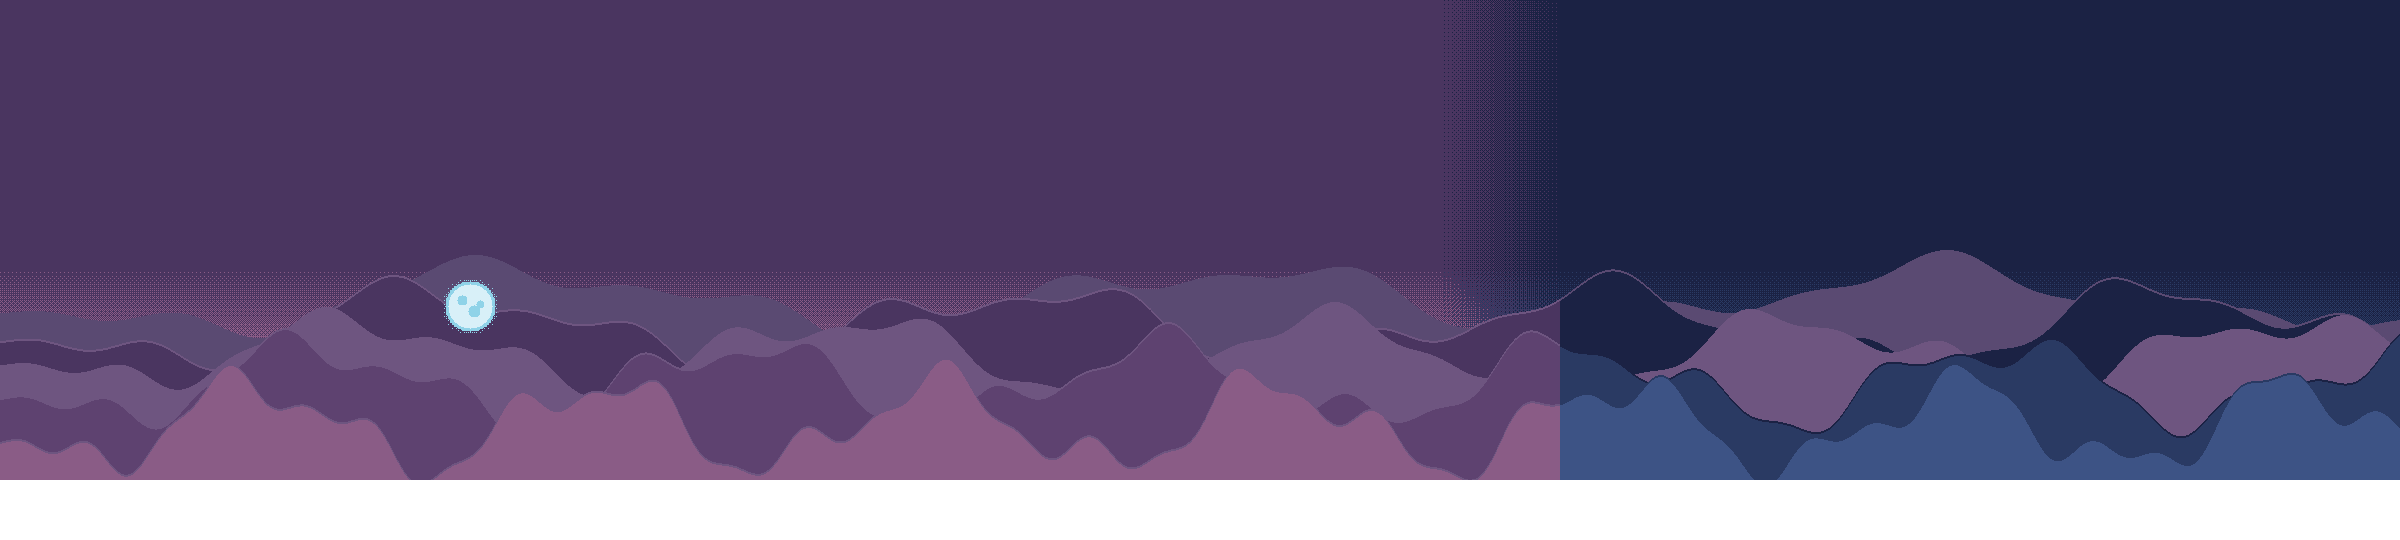
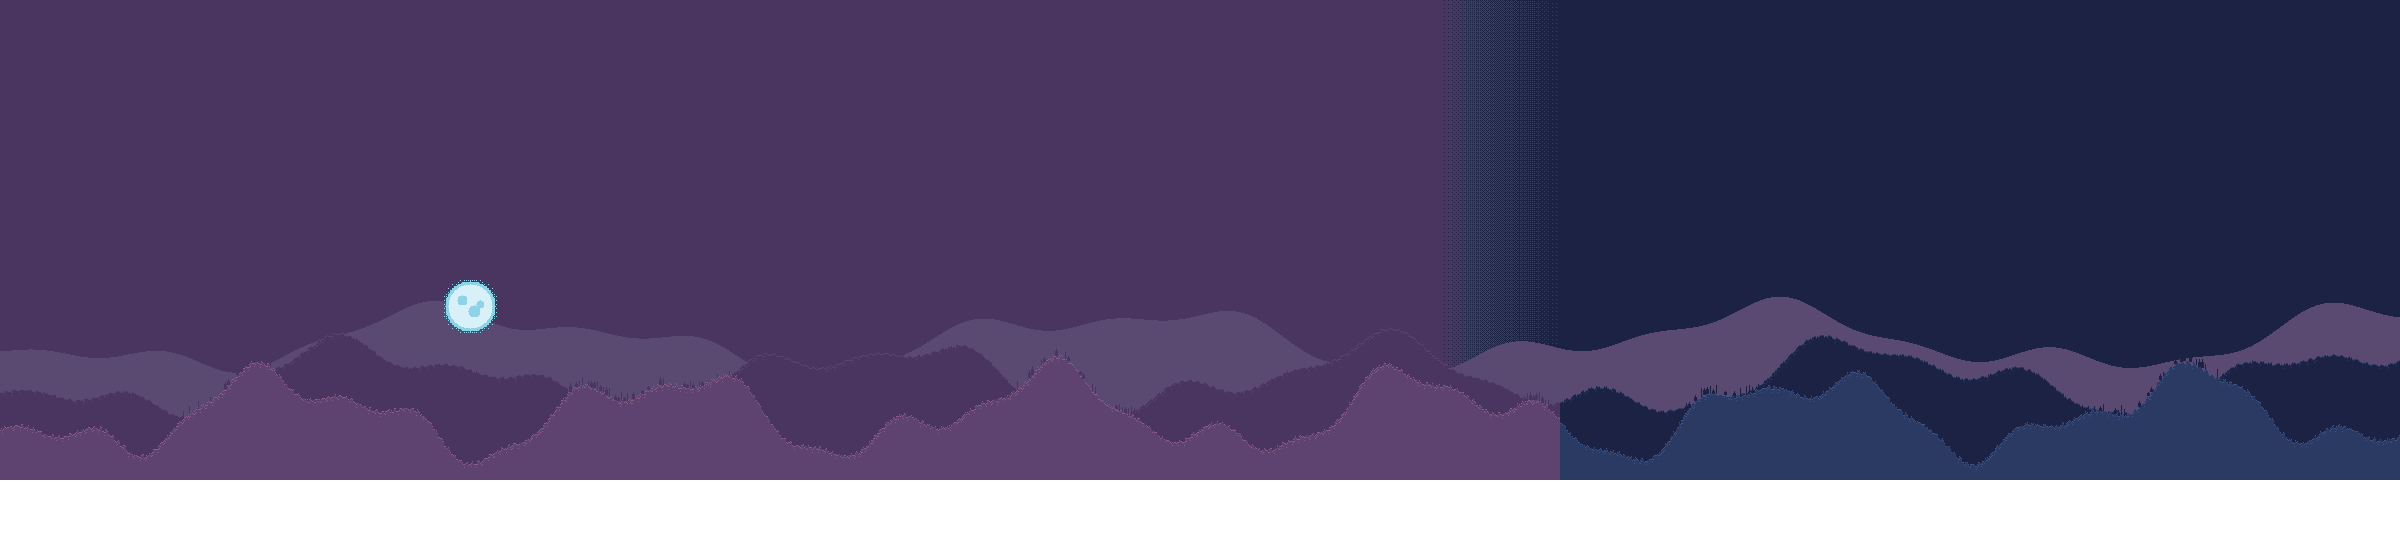
fix(art): 重做背景远山与天空 - 压低山体/加锯齿/补树线

Changed region(s): [[0.0, 0.4741, 1.0, 0.8889], [0.0, 0.6222, 0.0625, 0.6519], [0.4688, 0.5037, 0.5, 0.5333]]

diff --git a/tools/make_scene_art.py b/tools/make_scene_art.py
@@ -1,4 +1,4 @@
-"""场景美术生成器：把灰盒替换成有氛围的夜景。
+"""场景美术生成器：把灰盒替换成有氛围的夜景。
 
 ## 设计思路
 
@@ -130,105 +130,155 @@ def hex_rgb(h):
 
 # ─────────────────────── 远景：夜空 ───────────────────────
 
-def make_sky():
-    """夜空：垂直渐变 + 月亮 + 三层远山。
 
-    渐变用**有序抖动**（4×4 Bayer），不是平滑渐变 ——
-    平滑渐变在像素画里会产生上百种中间色，直接破坏 28 色约束。
-    抖动让相邻两种纯色交错，远看是渐变，近看仍是纯色块。
+def _ridge_color(body, is_night):
+    """给山脊取一个"比山体亮一档"的色。
+
+    **必须从调色板里取**，不能计算 —— 计算出的色会让用色统计超标。
+    优先找同色系里明度高一档的；找不到就返回原色（宁可不勾）。
+
+    **必须区分黄昏/夜色**：第一版在全调色板里找"更亮且色相接近"的，
+    结果夜色区的山脊选到了黄昏紫 (90,74,114)，夜幕上冒出一圈紫边。
+    所以候选集要按区域过滤。
+    """
+    if is_night:
+        # 夜色系：只允许**蓝色分量明显高于红色**的深色。
+        # 不能用 haze_* ——haze_far 是 (90,74,114) 的紫，
+        # 混进夜幕会有一条明显的紫边（实测 y=359~371）。
+        keys = ["night_far", "night_mid", "night_near", "ink"]
+    else:
+        # 黄昏系：只允许偏紫的暖色
+        keys = ["dusk_mtn_dk", "dusk_mtn", "dusk_sky",
+                "haze_far", "haze_near"]
+    pal = [hx(k)[:3] for k in keys if k in P]
+    # 在山体色基础上，找"更亮且色相接近"的调色板成员
+    best = body[:3]
+    best_score = 0.0
+    body_lum = 0.299 * body[0] + 0.587 * body[1] + 0.114 * body[2]
+    for c in pal:
+        lum = 0.299 * c[0] + 0.587 * c[1] + 0.114 * c[2]
+        # 只要稍微亮一点的
+        if lum <= body_lum or lum > body_lum * 1.6:
+            continue
+        # 色相接近：三通道差值不能太大
+        diff = max(abs(c[0] - body[0]), abs(c[1] - body[1]),
+                   abs(c[2] - body[2]))
+        if diff > 90:
+            continue
+        score = lum - diff * 0.3
+        if score > best_score:
+            best_score = score
+            best = c
+    return (best[0], best[1], best[2], 255)
+def make_sky():
+    """夜空 + 远山。
+
+    ## 这一版为什么重做
+
+    用户反馈「背景跟风格有点不搭配，月亮跟草地对味了」。
+    月亮和草的特点是**小而精致**（有描边、有 2~3 级明暗、轮廓清晰），
+    而山是**巨大而平坦**（撑满画面的 67%，每层只有 1~2 个纯色）。
+
+    具体三个问题：
+
+    1. **山太大**：基准高度 300~424，相机可见区间才 y=270~540，
+       等于整块画面都是山，没有"天空"的呼吸感。
+    2. **天空抖动太吵**：可视角内的渐变用 4×4 Bayer，但相邻两色
+       明度差太大，抖动出来是可见噪点，像静态雪花。
+       月亮周围明明是干净的，两者放一起就割裂。
+    3. **原来的"山体色块扰动"是空操作**：写的是 px[x,yy] = color，
+       而那里本来就是 color，整段代码什么也没做。
+
+    ## 这版的做法
+
+    · **天空以纯色为主，只有靠近地平线的一条窄带做抖动渐变**
+      → 大面积干净，噪点消失，和月亮的干净感一致
+    · **山整体下压**（340/378/412），留出上方 1/3 干净天空
+    · **山脊加锯齿**（原来的纯正弦太圆滑，像布不是山）
+    · **最近一层山脊加远景树线**，把"草"的语言延伸到远处
+    · 山体加**受光/背光分界**（每层两种色），不再是一整片纯色
     """
     img = Image.new("RGBA", (ROOM_W, ROOM_H), (0, 0, 0, 0))
     px = img.load()
 
+    # ══════════════ 1. 天空 ══════════════
+    #
+    # 结构：上方一大片纯色 → 靠近地平线一小段抖动渐变。
+    # 渐变带宽只占可见高度的一部分，避免整片天空都是噪点。
+    SKY_FLAT_END = 380      # 这个 y 之前是纯色
+    HORIZON = GROUND_Y      # 480
 
+    dusk_flat = hx("dusk_mtn_dk")
+    dusk_glow = hx("dusk_sky")
+    night_flat = hx("night_far")
+    night_glow = hx("night_mid")
 
-    # 天空分三段：顶部夜色远 → 中部夜色中 → 底部夜色近
-    # 每段之间用抖动过渡（16 级）
-    # 渐变只在**可见区间**（相机看到的 y=270~480）内做，
-    # 这样玩家眼前总有层次，而不是一整片纯色。
-    VIS_TOP = 265
-    # 两套配色：x < TUTORIAL_END 用黄昏，x >= 用夜色。
-    # 在边界前后 120px 内做**抖动混合**：黄昏色和夜色按比例交错，
-    # 远看是平滑过渡，近看仍是纯色块（不破坏像素感、不引入新颜色）。
-    # **只从调色板取值，不计算中间色**。
-    # 第一版用 hex_rgb() 直接算，产生了 7 个不在调色板里的色
-    # （用色统计 29/28）。像素风要求所有颜色必须是调色板成员。
-    dusk_stops = [
-        (0.00, hx("dusk_mtn_dk")),
-        (0.50, hx("dusk_sky")),
-        (1.00, hx("dusk_glow")),
-    ]
-    night_stops = [
-        (0.00, hx("night_far")),
-        (0.50, hx("night_mid")),
-        (1.00, hx("night_near")),
-    ]
-
-    def pick_stops(x):
-        """返回该 x 位置应使用的配色。过渡区里按 x 决定，由抖动实现混合。"""
-        return dusk_stops if x < TUTORIAL_END else night_stops
+    # 黄昏/夜色的分界（和关卡分界一致，中间 120px 抖动混合）
     BLEND = 120
 
     for y in range(int(GROUND_Y)):
-        t = max(0.0, (y - VIS_TOP)) / max(1.0, GROUND_Y - VIS_TOP)
-
         for x in range(ROOM_W):
-            # 过渡带：黄昏/夜色按 x 位置和抖动比例混合
+            # 先决定这一列用哪套配色（过渡带按抖动混合）
             if x < TUTORIAL_END - BLEND:
-                stops = dusk_stops
+                flat, glow = dusk_flat, dusk_glow
             elif x >= TUTORIAL_END:
-                stops = night_stops
+                flat, glow = night_flat, night_glow
             else:
-                # 过渡带内，抖动决定这一像素取哪套
                 th_blend = (BAYER[y % 4][x % 4] + 0.5) / 16.0
                 ratio = (x - (TUTORIAL_END - BLEND)) / BLEND
-                stops = night_stops if th_blend < ratio else dusk_stops
+                if th_blend < ratio:
+                    flat, glow = night_flat, night_glow
+                else:
+                    flat, glow = dusk_flat, dusk_glow
 
-            seg = 0
-            for i in range(len(stops) - 1):
-                if stops[i][0] <= t <= stops[i + 1][0]:
-                    seg = i
-                    break
-            t0, c0 = stops[seg]
-            t1, c1 = stops[seg + 1]
-            local = 0.0 if t1 <= t0 else (t - t0) / (t1 - t0)
+            if y < SKY_FLAT_END:
+                px[x, y] = flat
+            else:
+                # 地平线渐变：从 flat 过渡到 glow
+                t = (y - SKY_FLAT_END) / max(1.0, HORIZON - SKY_FLAT_END)
+                # 用 2×2 抖动（比 4×4 粗一档）：
+                # 在 480 宽的画面里，2×2 的颗粒更接近"色块"而不是"噪点"
+                th = (BAYER[(y // 2) % 4][(x // 2) % 4] + 0.5) / 16.0
+                px[x, y] = glow if t > th else flat
 
-            th = (BAYER[y % 4][x % 4] + 0.5) / 16.0
-            c = c1 if local > th else c0
-            px[x, y] = c
-
-    # ── 远山：**五层**（原 3 层）──
-    #
-    # 原来只有 3 层纯色山，看起来像剪纸。改进点：
-    #   1. 加两层「薄雾山」做空气透视 —— 越远的山越接近天空色，
-    #      这是产生"景深"最廉价也最有效的手段
-    #   2. 每个山脊加**边缘高光**：山体顶部 1~2px 用亮一档的颜色，
-    #      模拟天光照在山脊上，山的立体感立刻出来
-    #   3. 山体内部加低频色块扰动，避免大面积纯色
+    # ══════════════ 2. 远山（三层 + 锯齿） ══════════════
     rng = random.Random(20261120)
 
-    # (夜色, 黄昏色, 基准高度, 起伏幅度, 波长, 是否加脊线高光)
-    # (夜色, 黄昏色, 夜色高光, 黄昏高光, 基准高度, 起伏, 波长, 是否加脊线)
+    # (夜色, 黄昏色, 夜色高光, 黄昏高光, 基准高度, 起伏, 波长, 锯齿强度)
+    #
+    # 基准高度整体下压：340/378/412（原来 300~424）。
+    # 这样 y=270 到第一层山之间留出约 70px 干净天空。
+    # 山脊高光色**必须和山体同色系**：
+    #   · 夜色区只能从 night_* 取
+    #   · 黄昏区只能从 dusk_* 取
+    # 第一版最远那层的高光写的是 haze_far（紫），结果夜幕上
+    # 冒出一条紫边（实测 y=359~371 全是 (90,74,114)）。
     layers = [
-        # 最远：薄雾山（贴着天空色，几乎融进去）
-        (hx("haze_far"),   hx("haze_far"),   hx("haze_far"),   hx("haze_far"),   300, 30, 700, False),
-        # 远
-        (hx("night_far"),  hx("dusk_mtn_dk"), hx("haze_far"),  hx("haze_near"),  326, 34, 580, True),
+        # 最远：几乎融进天空，不需要独立高光
+        (hx("haze_far"),   hx("haze_far"),    hx("haze_far"),
+         hx("haze_far"),   340, 26, 640, 0.0),
         # 中远
-        (hx("haze_near"),  hx("haze_near"),  hx("haze_near"),  hx("haze_near"),  352, 30, 480, False),
-        # 中
-        (hx("night_mid"),  hx("dusk_mtn"),   hx("night_far"),  hx("haze_near"),  382, 36, 420, True),
-        # 近
-        (hx("night_near"), hx("dusk_sky"),   hx("night_mid"),  hx("haze_near"),  424, 40, 340, True),
+        (hx("night_far"),  hx("dusk_mtn_dk"), hx("night_mid"),
+         hx("dusk_mtn"),   378, 30, 500, 0.6),
+        # 近：最实、锯齿最强
+        (hx("night_mid"),  hx("dusk_mtn"),    hx("night_near"),
+         hx("dusk_sky"),   412, 34, 380, 1.0),
     ]
 
-    # 每层用不同的高频多段叠加，做出山的"肩线"
-    for night_c, dusk_c, night_hi, dusk_hi, base, amp, wave, rim in layers:
+    for night_c, dusk_c, night_hi, dusk_hi, base, amp, wave, jag in layers:
         heights = []
         for x in range(ROOM_W):
+            # 主起伏：多频正弦（保持山的大形）
             h = (math.sin(x / wave * math.tau) * amp
                  + math.sin(x / (wave * 0.43) * math.tau + 1.7) * amp * 0.45
                  + math.sin(x / (wave * 0.21) * math.tau + 3.1) * amp * 0.22)
+            # 锯齿：让山脊不是光滑曲线。
+            # 纯正弦看起来像"布褶"而不是山岩 —— 这是上一版最大的问题。
+            if jag > 0.0:
+                step = max(2, int(6 - jag * 3))
+                if (x // step) % 2 == 0:
+                    h += jag * 2.0
+                h += rng.uniform(-jag * 1.2, jag * 1.2)
             heights.append(int(base + h))
 
         for x in range(ROOM_W):
@@ -237,21 +287,56 @@ def make_sky():
             for y in range(max(0, top), int(GROUND_Y)):
                 px[x, y] = color
 
-            # 山体内部的低频色块扰动（每 24px 一块，错开避免规则感）
-            if (x // 24 + (top // 18)) % 5 == 0:
-                if y_ok := top + 30 < GROUND_Y:
-                    for yy in range(top + 30, min(GROUND_Y, top + 70)):
-                        px[x, yy] = color
+            # 山体内部的**受光/背光分界**：
+            # 左侧山坡受光（更亮），右侧背光（更深）。
+            # 用相邻山脊的高度差判断坡向。
+            if 0 < x < ROOM_W - 1:
+                slope = heights[x + 1] - heights[x - 1]
+                if slope < -1:      # 上升坡 = 受光面
+                    hi = dusk_hi if x < TUTORIAL_END else night_hi
+                    # 只给坡面上部 60% 上高光，下面保持原色
+                    for k in range(3, min(40, int(GROUND_Y) - top)):
+                        if 0 <= top + k < int(GROUND_Y):
+                            px[x, top + k] = hi
+                            break
 
-            # 山脊高光：顶端 2px 用调色板内的更亮山色（不计算，避免越界）
-            if rim:
-                hi = dusk_hi if x < TUTORIAL_END else night_hi
-                for k in range(2):
-                    if 0 <= top + k < int(GROUND_Y):
-                        px[x, top + k] = hi
+            # 山脊线：顶端 1px 用更亮的色，勾出轮廓
+            if 0 <= top < int(GROUND_Y):
+                hi2 = dusk_hi if x < TUTORIAL_END else night_hi
+                px[x, top] = hi2
 
+    # ══════════════ 3. 最近一层山脊的远景树线 ══════════════
+    #
+    # 用户说"草地对味了"—— 把植被的语言延伸到远处山脊，
+    # 让"远处的树"和"近处的草"形成呼应，比光秃秃的山脊亲切。
+    near_base = 412
+    for x in range(0, ROOM_W, 3):
+        # 只在山坡较平缓的地方长树
+        h = (math.sin(x / 380 * math.tau) * 34
+             + math.sin(x / (380 * 0.43) * math.tau + 1.7) * 34 * 0.45
+             + math.sin(x / (380 * 0.21) * math.tau + 3.1) * 34 * 0.22)
+        ridge_y = int(near_base + h)
+        # 用噪声决定这一棵多高，避免等间距
+        if rng.random() > 0.55:
+            continue
+        tree_h = rng.randint(4, 9)
+        tree_w = rng.randint(1, 2)
+        # 树是深色剪影：比山脊更深一档，在云雾里静静站着
+        tree_col = hx("night_far") if x >= TUTORIAL_END else hx("dusk_mtn_dk")
+        for k in range(tree_h):
+            yy = ridge_y - k
+            if not (0 <= yy < int(GROUND_Y)):
+                continue
+            # 上窄下宽的树形
+            w_here = tree_w if k < tree_h * 0.6 else max(1, tree_w - 1)
+            for dx in range(-w_here + 1, w_here):
+                xx = x + dx
+                if 0 <= xx < ROOM_W:
+                    px[xx, yy] = tree_col
 
-    # ── 月亮（右上，柔光晕）──
+    # ══════════════ 4. 月亮 ══════════════
+    #
+    # **保持不变** —— 用户明确说月亮对味了。
     moon_x, moon_y, moon_r = 470, 306, 22
     for y in range(moon_y - moon_r * 3, moon_y + moon_r * 3):
         if not (0 <= y < GROUND_Y):
@@ -265,14 +350,11 @@ def make_sky():
             elif d <= moon_r + 3:
                 px[x, y] = hx("moon_hi")
             elif d <= moon_r + 7:
-                # 光晕：用抖动做半透明。
-                # 原来铺到 moon_r+12 且密度 0.45，观感是一团发虚的白雾，
-                # 收窄到 +7、密度降到 0.28，只留一圈薄晕。
                 th = (BAYER[y % 4][x % 4] + 0.5) / 16.0
                 if th < 0.28 * (1.0 - (d - moon_r - 3) / 4.0):
                     px[x, y] = hx("moon_hi")
 
-    # 月亮上的暗斑（让它不是个纯白圆）
+    # 月亮上的暗斑
     for dy, dx, r in [(-6, -8, 5), (5, 4, 6), (-2, 10, 4)]:
         for y in range(moon_y + dy - r, moon_y + dy + r):
             for x in range(moon_x + dx - r, moon_x + dx + r):
@@ -282,7 +364,6 @@ def make_sky():
                             px[x, y] = hx("moon_hi")
 
     return img
-
 
 # ─────────────────────── 中景：石台 ───────────────────────
 
